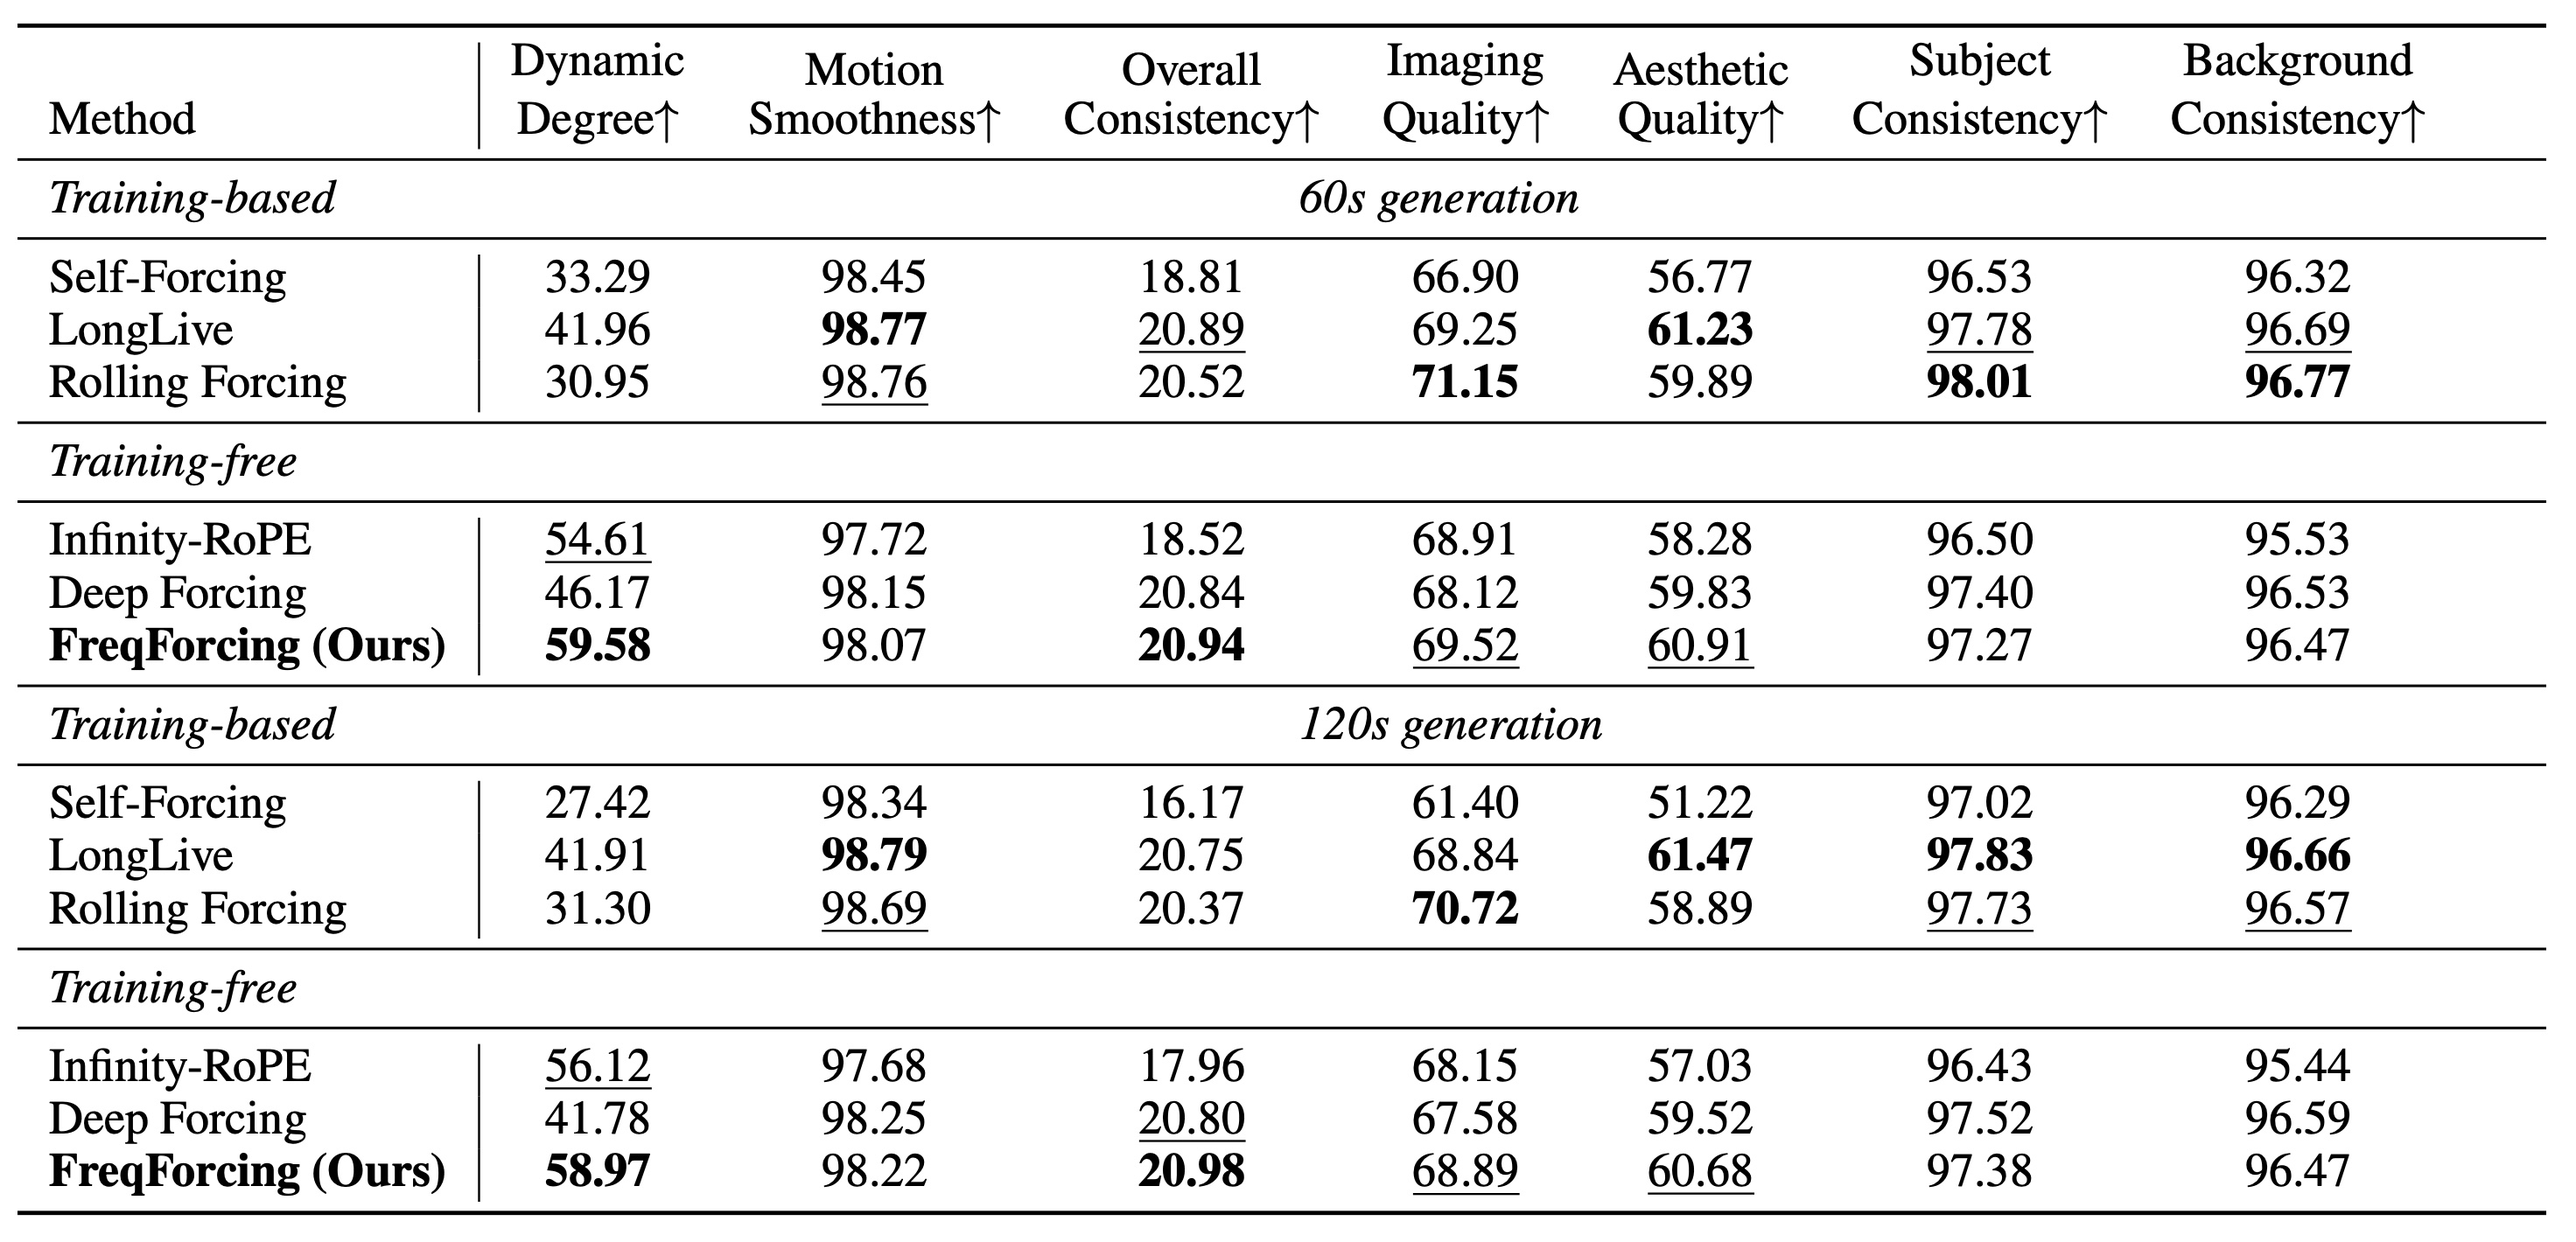
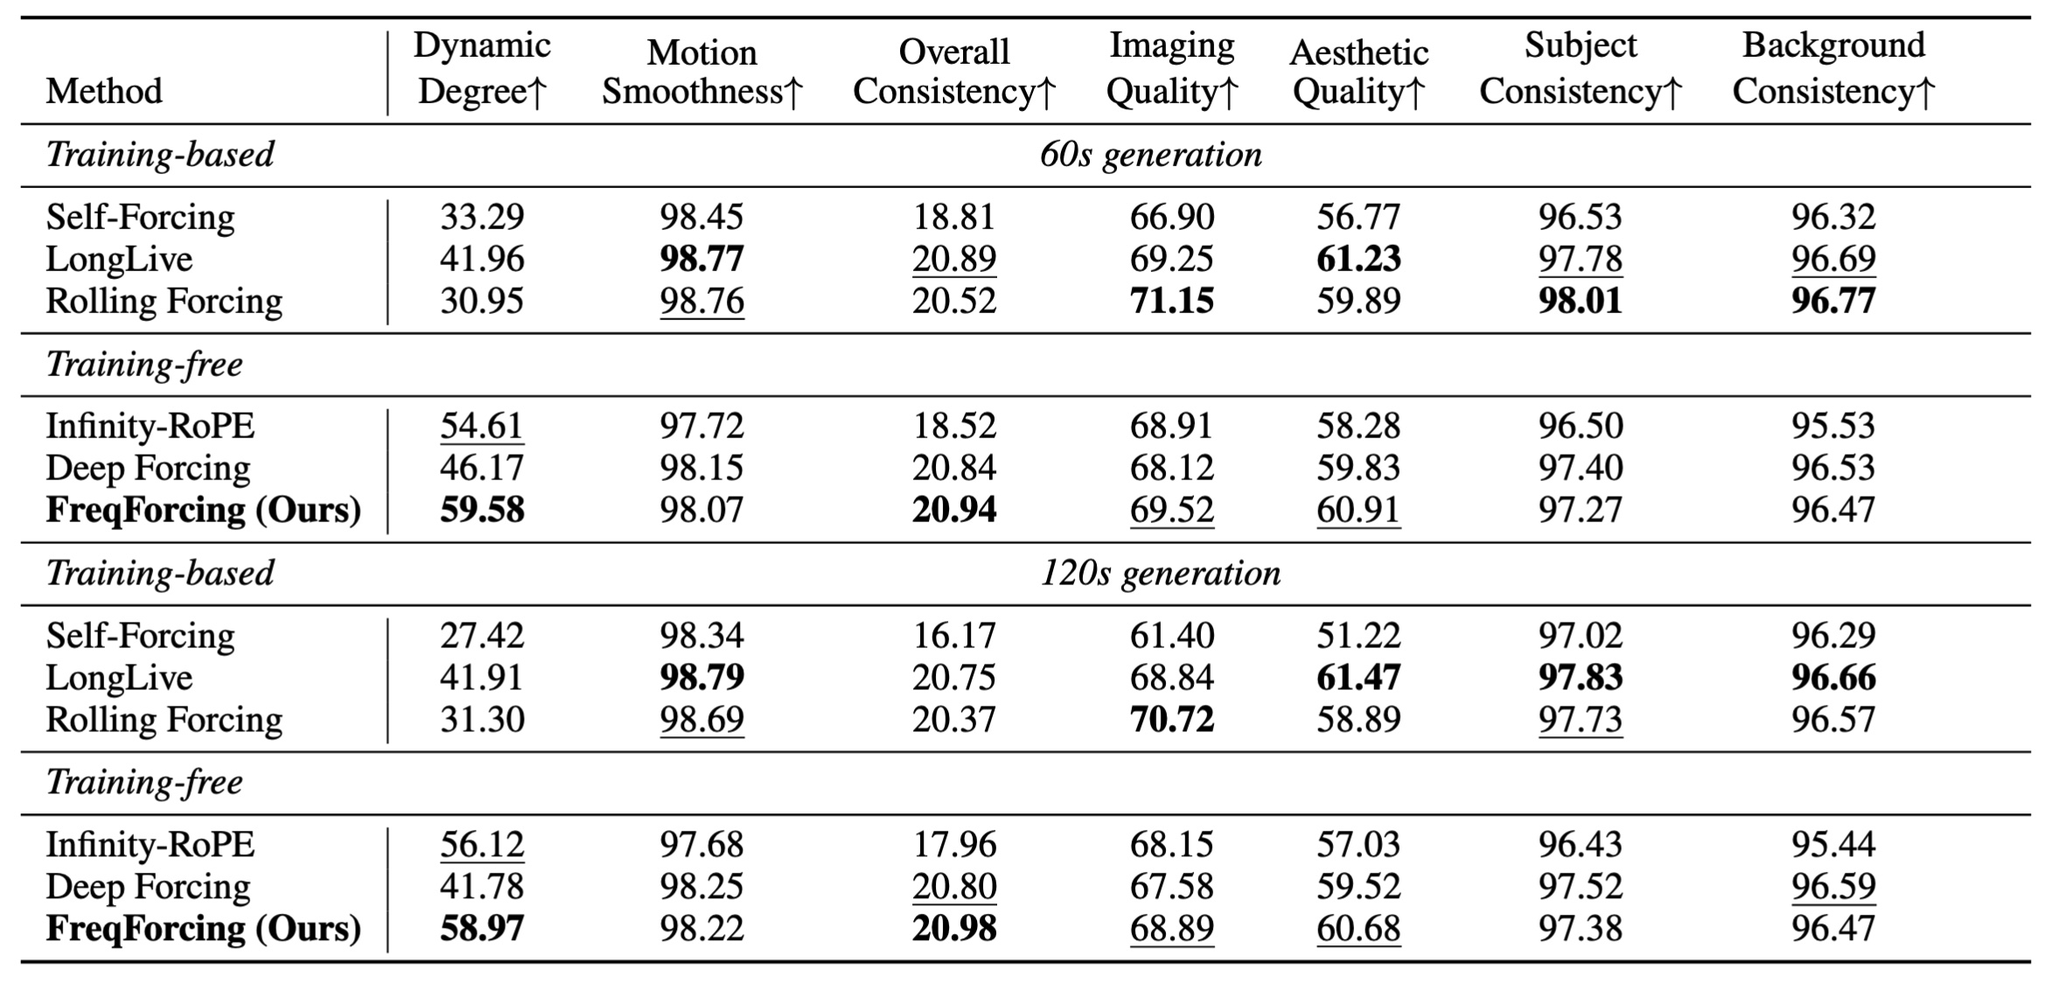
fix url

Changed region(s): [[0.0, 0.0, 0.9924, 0.9964]]

diff --git a/index.html b/index.html
@@ -130,7 +130,7 @@
               </span>
               <!-- Code Link. -->
               <span class="link-block">
-                <a href="https://github.com/Rolling-Sink/Rolling-Sink" target="_blank" rel="noopener noreferrer"
+                <a href="https://github.com/jiatongli2024/FreqForcing" target="_blank" rel="noopener noreferrer"
                    class="external-link button is-normal is-rounded is-dark">
                   <span class="icon">
                     <i class="fab fa-github" style="font-size:23px"></i>
